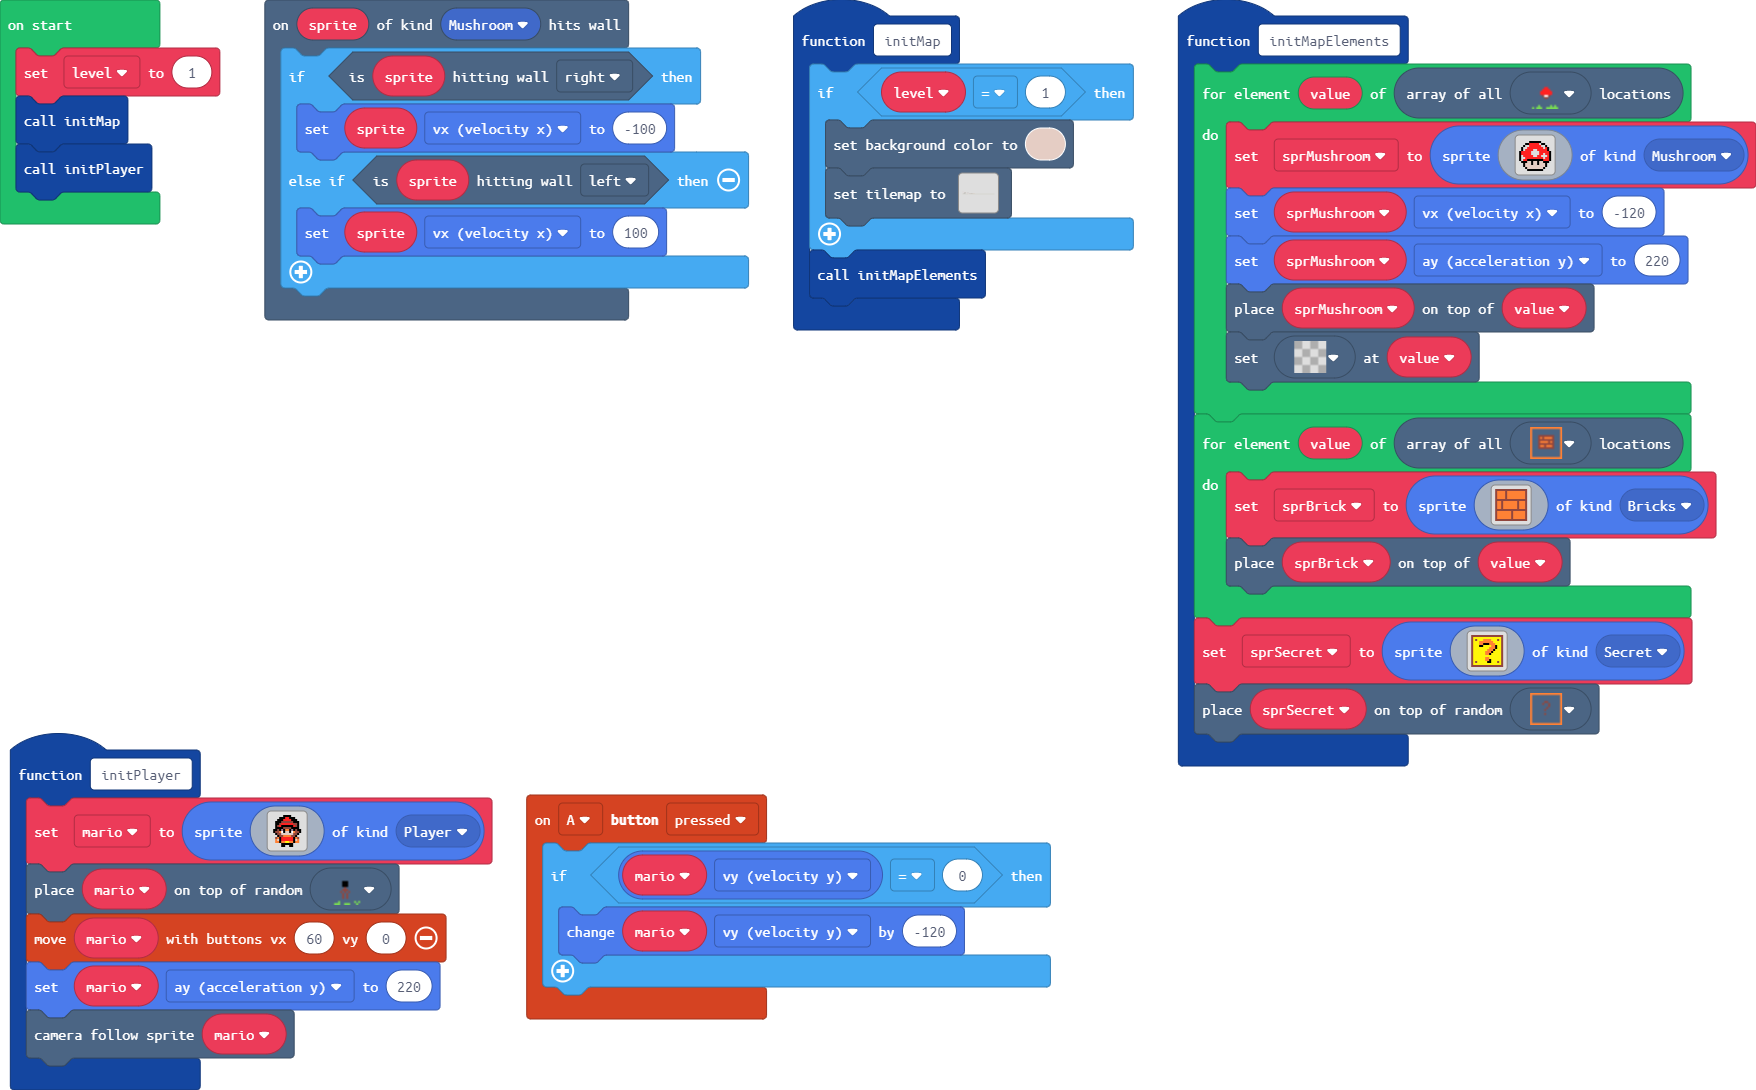
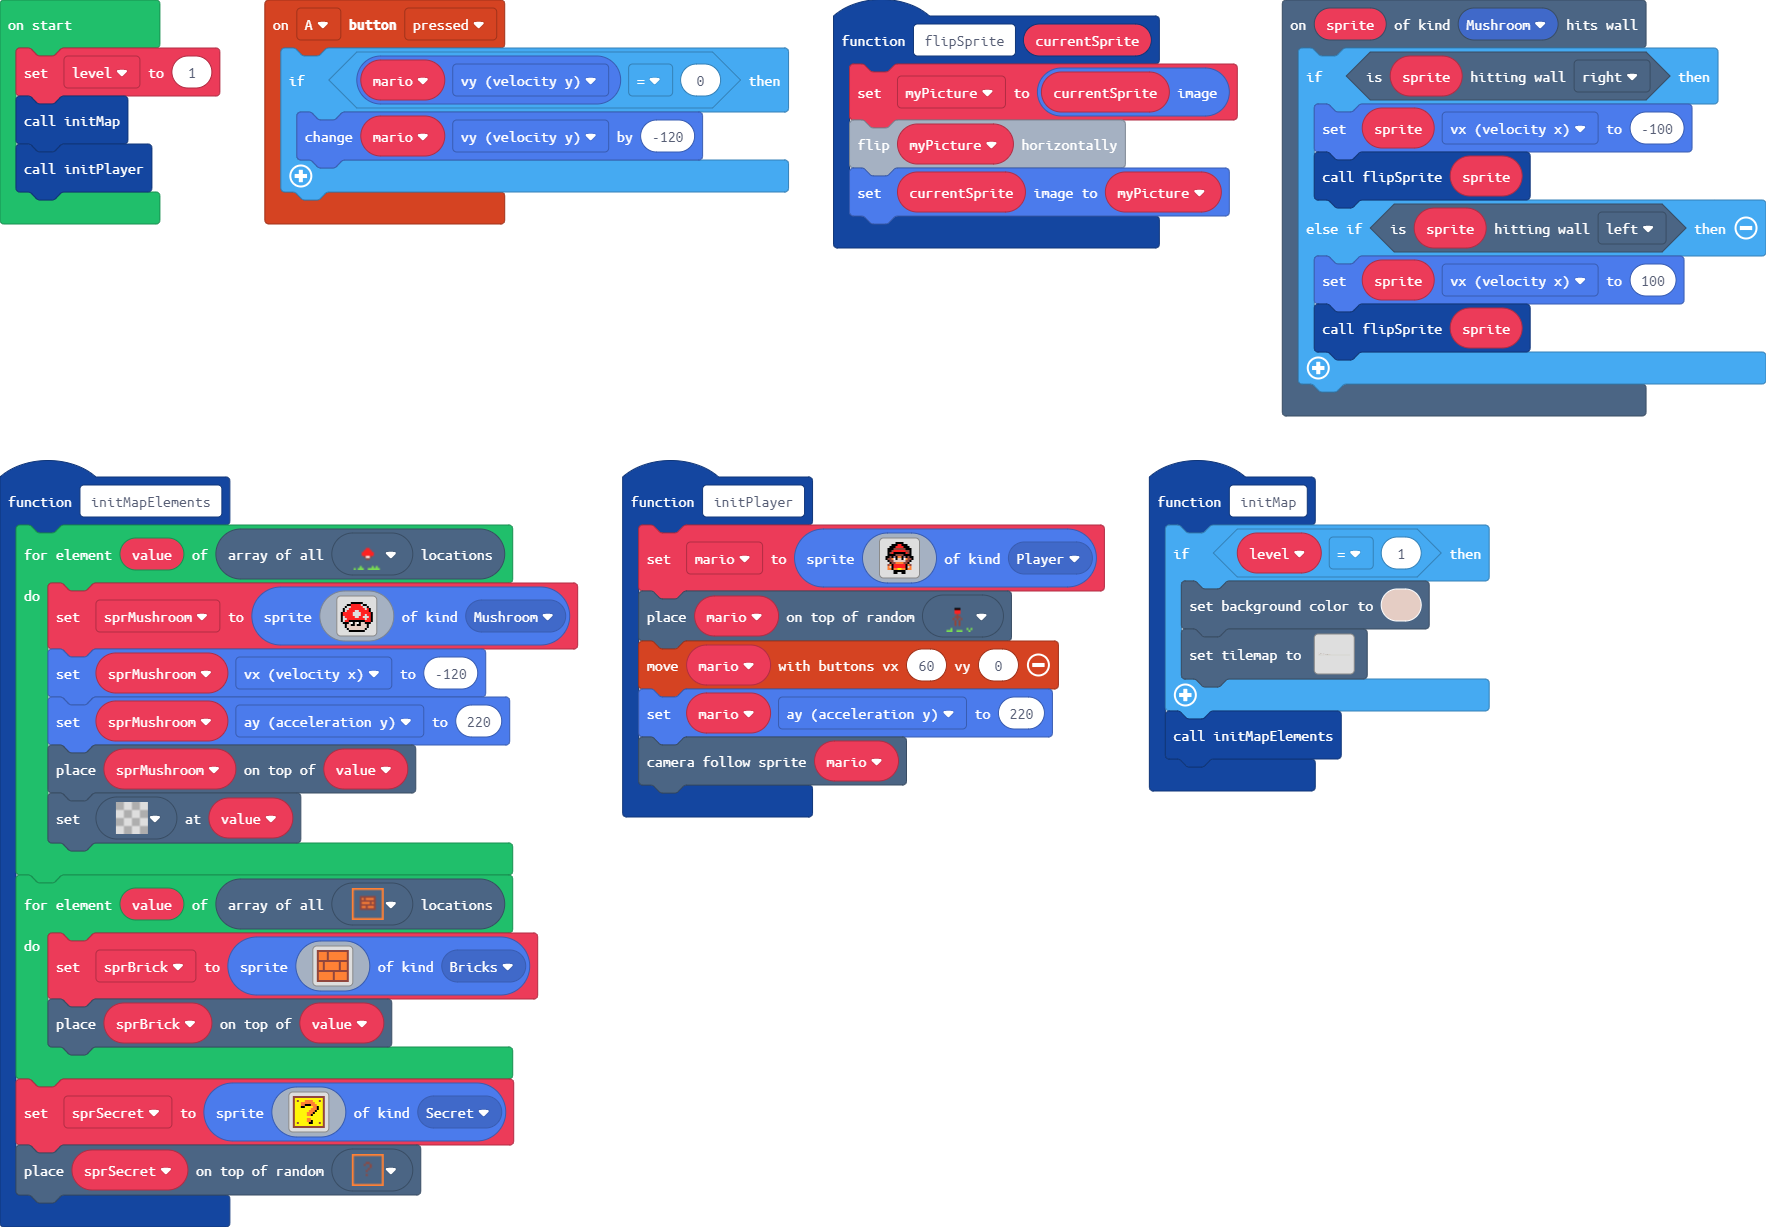
Update main.blocks, main.ts

diff --git a/main.ts b/main.ts
@@ -201,8 +201,8 @@ e e e e e e e e e e e e e e e e
 . . . . . . . . . . . . . . . . 
 . . . . . . . . . . . . . . . . 
 . . . . . . f f f . . . . . . . 
-. . . . . . f f f . . . . . . . 
-. . . . . . f f f . . . . . . . 
+. . . . . . 2 2 2 . . . . . . . 
+. . . . . . 2 2 2 . . . . . . . 
 . . . . . . . e . . . . . . . . 
 . . . . . . e e e . . . . . . . 
 . . . . . e . e . e . . . . . . 
@@ -228,8 +228,8 @@ f 2 2 2 2 2 . . . . 2 2 . 2 2 f
 f . 2 2 2 2 2 . . 2 2 . . . 2 f 
 f . . 2 2 2 2 2 2 2 2 2 . 2 2 f 
 f . 2 2 f f f f f f f f 2 2 2 f 
-. f f f d d f d d f d d f f f . 
-. . f d d d f d d f d d d f . . 
+. f f f d 1 f d 1 f d d f f f . 
+. . f d d f f d f f d d d f . . 
 . . f d d d d d d d d d d f . . 
 . . . f d d d d d d d d f . . . 
 . . . . f f f f f f f f . . . . 
@@ -283,15 +283,17 @@ e e e e e e e e e e e e e e e e
 scene.onHitWall(SpriteKind.Mushroom, function (sprite) {
     if (sprite.isHittingTile(CollisionDirection.Right)) {
         sprite.vx = -100
+        flipSprite(sprite)
     } else if (sprite.isHittingTile(CollisionDirection.Left)) {
         sprite.vx = 100
+        flipSprite(sprite)
     }
 })
 function initMap () {
     if (level == 1) {
         scene.setBackgroundColor(13)
         tiles.setTilemap(tiles.createTilemap(
[2 lines of base64/hex data omitted]
             img`
 2 . . . . . . . . . . . . . . . . . . . . . . . . . . . . . . . . . . . . . . . . . . . . . . . . . . . . . . . . . . . . . . . . . . . . . . . . . . . . . . . 
 2 . . . . . . . . . . . . . . . . . . . . . . . . . . . . . . . . . . . . . . . . . . . . . . . . . . . . . . . . . . . . . . . . . . . . . . . . . . . . . . . 
@@ -337,6 +339,12 @@ controller.A.onEvent(ControllerButtonEvent.Pressed, function () {
         mario.vy += -120
     }
 })
+function flipSprite (currentSprite: Sprite) {
+    myPicture = currentSprite.image
+    myPicture.flipX()
+    currentSprite.setImage(myPicture)
+}
+let myPicture: Image = null
 let mario: Sprite = null
 let sprSecret: Sprite = null
 let sprBrick: Sprite = null
